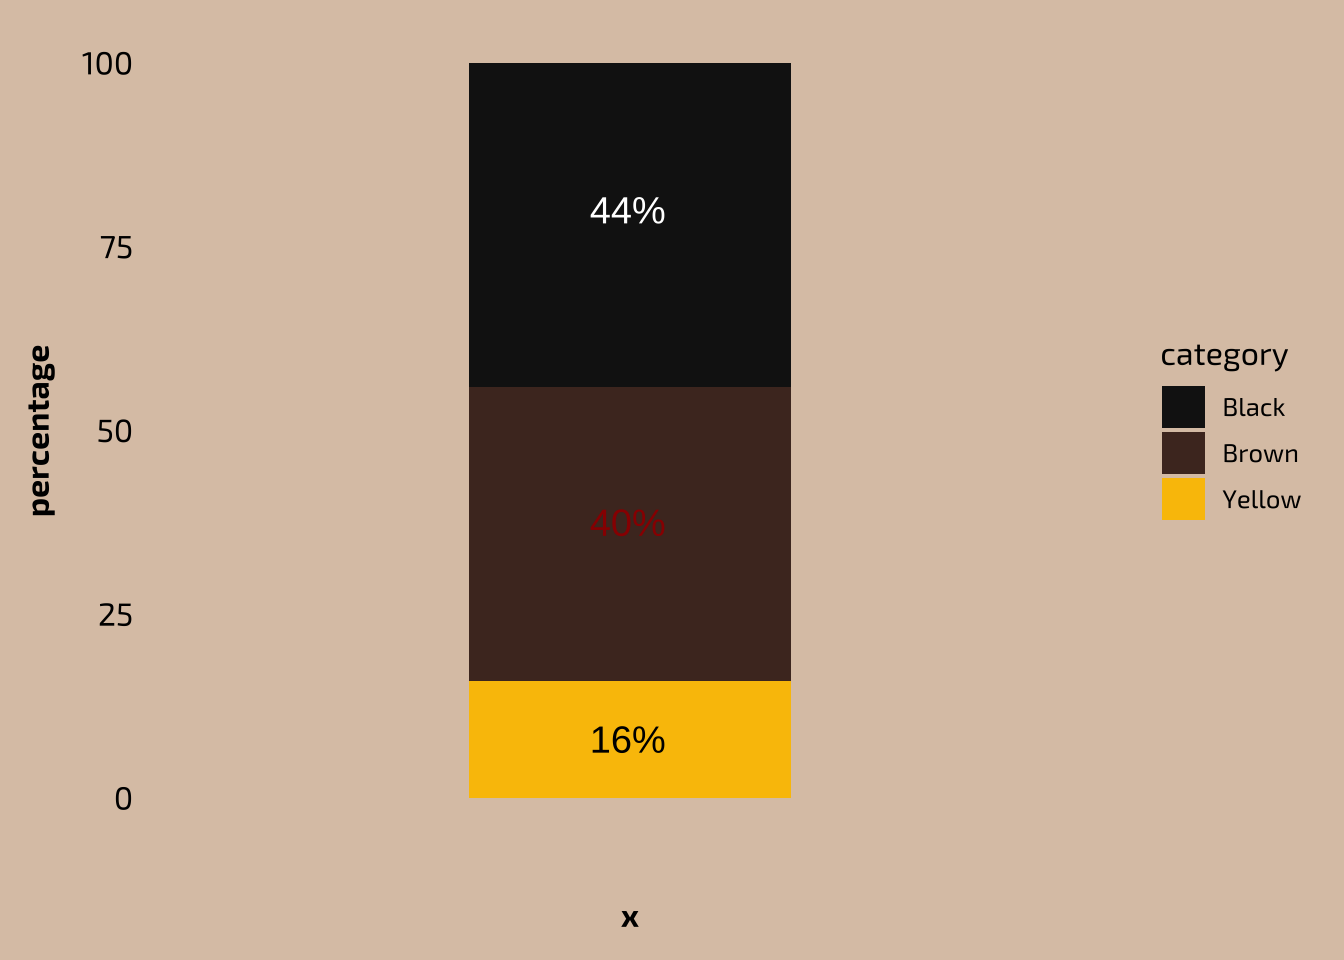
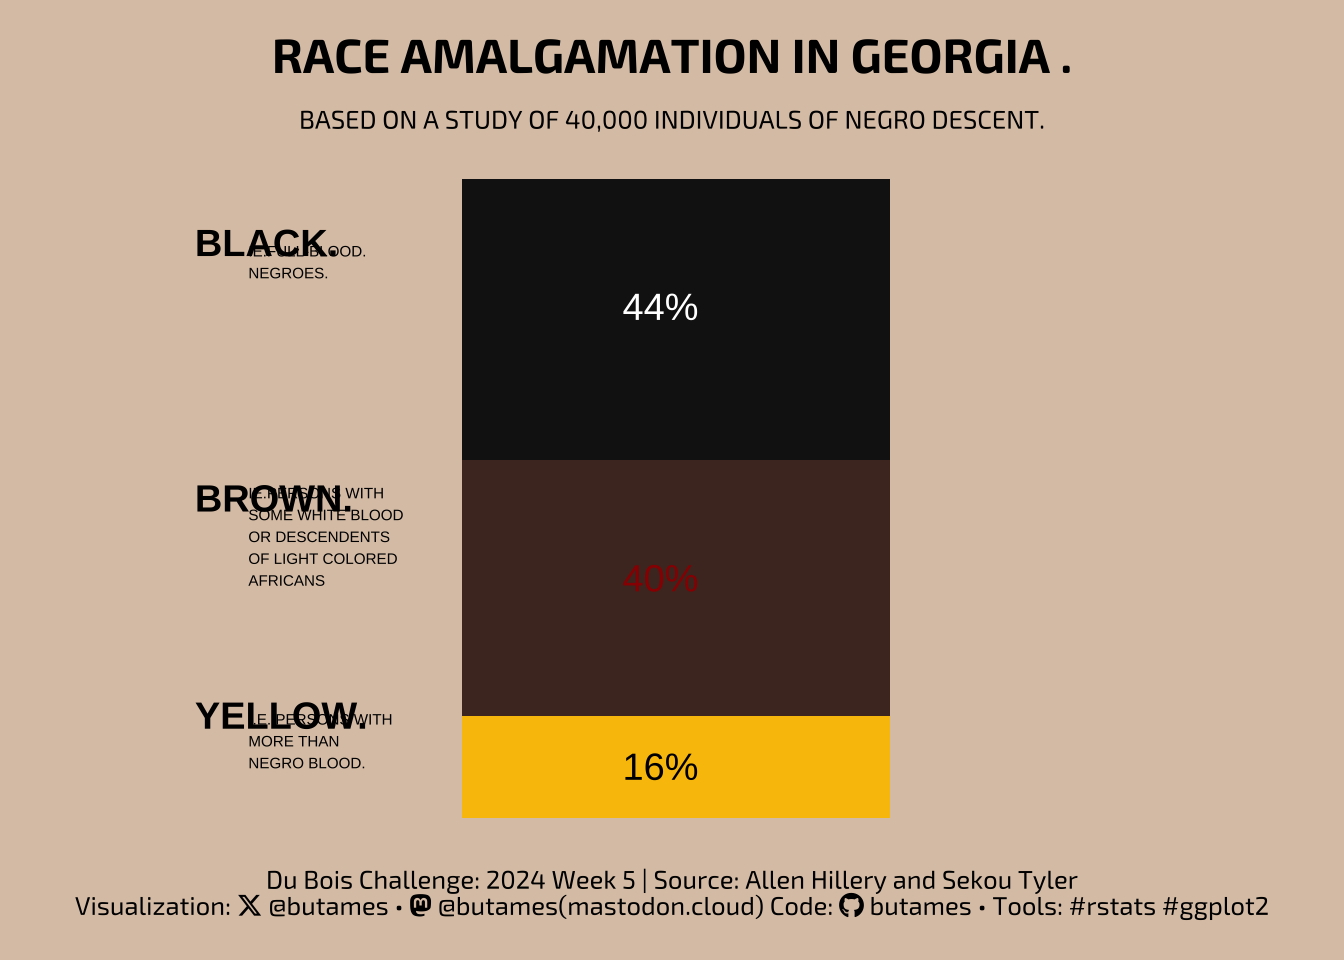
minor changes.

diff --git a/otherprojects/2024duboisviz/challenge05/challenge05.html b/otherprojects/2024duboisviz/challenge05/challenge05.html
@@ -180,19 +180,19 @@ Race Amalgamation in Georgia (plate 13), March 4.
 <div class="cell">
 <div class="sourceCode cell-code" id="cb5"><pre class="sourceCode r code-with-copy"><code class="sourceCode r"><span id="cb5-1"><a href="#cb5-1" aria-hidden="true" tabindex="-1"></a><span class="fu">theme_set</span>(<span class="fu">theme_minimal</span>(<span class="at">base_size =</span> <span class="dv">12</span>, <span class="at">base_family =</span> <span class="st">"text"</span>))</span>
 <span id="cb5-2"><a href="#cb5-2" aria-hidden="true" tabindex="-1"></a><span class="fu">theme_update</span>(</span>
-<span id="cb5-3"><a href="#cb5-3" aria-hidden="true" tabindex="-1"></a>  <span class="at">plot.title.position =</span> <span class="st">"plot"</span>,</span>
+<span id="cb5-3"><a href="#cb5-3" aria-hidden="true" tabindex="-1"></a>  <span class="at">plot.title.position   =</span> <span class="st">"plot"</span>,</span>
 <span id="cb5-4"><a href="#cb5-4" aria-hidden="true" tabindex="-1"></a>  <span class="at">plot.caption.position =</span> <span class="st">"plot"</span>,</span>
-<span id="cb5-5"><a href="#cb5-5" aria-hidden="true" tabindex="-1"></a>  <span class="at">axis.title.x =</span> <span class="fu">element_text</span>(<span class="at">margin =</span> <span class="fu">margin</span>(<span class="at">t =</span> <span class="dv">10</span>, <span class="at">r =</span> <span class="dv">0</span>, <span class="at">b =</span> <span class="dv">0</span>, <span class="at">l =</span> <span class="dv">0</span>), <span class="at">size =</span> <span class="fu">rel</span>(<span class="dv">1</span>), <span class="at">color =</span> txtcol, <span class="at">family =</span> <span class="st">"text"</span>, <span class="at">face =</span> <span class="st">"bold"</span>),</span>
-<span id="cb5-6"><a href="#cb5-6" aria-hidden="true" tabindex="-1"></a>  <span class="at">axis.title.y =</span> <span class="fu">element_text</span>(<span class="at">margin =</span> <span class="fu">margin</span>(<span class="at">t =</span> <span class="dv">0</span>, <span class="at">r =</span> <span class="dv">10</span>, <span class="at">b =</span> <span class="dv">0</span>, <span class="at">l =</span> <span class="dv">0</span>), <span class="at">size =</span> <span class="fu">rel</span>(<span class="dv">1</span>), <span class="at">color =</span> txtcol, <span class="at">family =</span> <span class="st">"text"</span>, <span class="at">face =</span> <span class="st">"bold"</span>),</span>
-<span id="cb5-7"><a href="#cb5-7" aria-hidden="true" tabindex="-1"></a>  <span class="at">axis.text =</span> <span class="fu">element_text</span>(<span class="at">size =</span> <span class="fu">rel</span>(<span class="dv">1</span>), <span class="at">color =</span> txtcol, <span class="at">family =</span> <span class="st">"text"</span>),</span>
-<span id="cb5-8"><a href="#cb5-8" aria-hidden="true" tabindex="-1"></a>  <span class="at">axis.line.x =</span> <span class="fu">element_blank</span>(),</span>
-<span id="cb5-9"><a href="#cb5-9" aria-hidden="true" tabindex="-1"></a>  <span class="at">panel.grid.minor.y =</span> <span class="fu">element_blank</span>(),</span>
-<span id="cb5-10"><a href="#cb5-10" aria-hidden="true" tabindex="-1"></a>  <span class="at">panel.grid.major.y =</span> <span class="fu">element_blank</span>(),</span>
-<span id="cb5-11"><a href="#cb5-11" aria-hidden="true" tabindex="-1"></a>  <span class="at">panel.grid.minor.x =</span> <span class="fu">element_blank</span>(),</span>
-<span id="cb5-12"><a href="#cb5-12" aria-hidden="true" tabindex="-1"></a>  <span class="at">panel.grid.major.x =</span> <span class="fu">element_blank</span>(),</span>
-<span id="cb5-13"><a href="#cb5-13" aria-hidden="true" tabindex="-1"></a>  <span class="at">plot.margin =</span> <span class="fu">margin</span>(<span class="at">t =</span> <span class="dv">10</span>, <span class="at">r =</span> <span class="dv">10</span>, <span class="at">b =</span> <span class="dv">10</span>, <span class="at">l =</span> <span class="dv">10</span>),</span>
-<span id="cb5-14"><a href="#cb5-14" aria-hidden="true" tabindex="-1"></a>  <span class="at">plot.background =</span> <span class="fu">element_rect</span>(<span class="at">fill =</span> bkgcol, <span class="at">color =</span> bkgcol),</span>
-<span id="cb5-15"><a href="#cb5-15" aria-hidden="true" tabindex="-1"></a>  <span class="at">panel.background =</span> <span class="fu">element_rect</span>(<span class="at">fill =</span> bkgcol, <span class="at">color =</span> bkgcol)</span>
+<span id="cb5-5"><a href="#cb5-5" aria-hidden="true" tabindex="-1"></a>  <span class="at">axis.title.x          =</span> <span class="fu">element_text</span>(<span class="at">margin =</span> <span class="fu">margin</span>(<span class="at">t =</span> <span class="dv">10</span>, <span class="at">r =</span> <span class="dv">0</span>, <span class="at">b =</span> <span class="dv">0</span>, <span class="at">l =</span> <span class="dv">0</span>), <span class="at">size =</span> <span class="fu">rel</span>(<span class="dv">1</span>), <span class="at">color =</span> txtcol, <span class="at">family =</span> <span class="st">"text"</span>, <span class="at">face =</span> <span class="st">"bold"</span>),</span>
+<span id="cb5-6"><a href="#cb5-6" aria-hidden="true" tabindex="-1"></a>  <span class="at">axis.title.y          =</span> <span class="fu">element_text</span>(<span class="at">margin =</span> <span class="fu">margin</span>(<span class="at">t =</span> <span class="dv">0</span>, <span class="at">r =</span> <span class="dv">10</span>, <span class="at">b =</span> <span class="dv">0</span>, <span class="at">l =</span> <span class="dv">0</span>), <span class="at">size =</span> <span class="fu">rel</span>(<span class="dv">1</span>), <span class="at">color =</span> txtcol, <span class="at">family =</span> <span class="st">"text"</span>, <span class="at">face =</span> <span class="st">"bold"</span>),</span>
+<span id="cb5-7"><a href="#cb5-7" aria-hidden="true" tabindex="-1"></a>  <span class="at">axis.text             =</span> <span class="fu">element_blank</span>(),</span>
+<span id="cb5-8"><a href="#cb5-8" aria-hidden="true" tabindex="-1"></a>  <span class="at">axis.line.x           =</span> <span class="fu">element_blank</span>(),</span>
+<span id="cb5-9"><a href="#cb5-9" aria-hidden="true" tabindex="-1"></a>  <span class="at">panel.grid.minor.y    =</span> <span class="fu">element_blank</span>(),</span>
+<span id="cb5-10"><a href="#cb5-10" aria-hidden="true" tabindex="-1"></a>  <span class="at">panel.grid.major.y    =</span> <span class="fu">element_blank</span>(),</span>
+<span id="cb5-11"><a href="#cb5-11" aria-hidden="true" tabindex="-1"></a>  <span class="at">panel.grid.minor.x    =</span> <span class="fu">element_blank</span>(),</span>
+<span id="cb5-12"><a href="#cb5-12" aria-hidden="true" tabindex="-1"></a>  <span class="at">panel.grid.major.x    =</span> <span class="fu">element_blank</span>(),</span>
+<span id="cb5-13"><a href="#cb5-13" aria-hidden="true" tabindex="-1"></a>  <span class="at">plot.margin           =</span> <span class="fu">margin</span>(<span class="at">t =</span> <span class="dv">10</span>, <span class="at">r =</span> <span class="dv">10</span>, <span class="at">b =</span> <span class="dv">10</span>, <span class="at">l =</span> <span class="dv">10</span>),</span>
+<span id="cb5-14"><a href="#cb5-14" aria-hidden="true" tabindex="-1"></a>  <span class="at">plot.background       =</span> <span class="fu">element_rect</span>(<span class="at">fill =</span> bkgcol, <span class="at">color =</span> bkgcol),</span>
+<span id="cb5-15"><a href="#cb5-15" aria-hidden="true" tabindex="-1"></a>  <span class="at">panel.background      =</span> <span class="fu">element_rect</span>(<span class="at">fill =</span> bkgcol, <span class="at">color =</span> bkgcol)</span>
 <span id="cb5-16"><a href="#cb5-16" aria-hidden="true" tabindex="-1"></a>)</span></code><button title="Copy to Clipboard" class="code-copy-button"><i class="bi"></i></button></pre></div>
 </div>
 </section>
@@ -206,14 +206,63 @@ Race Amalgamation in Georgia (plate 13), March 4.
 <span id="cb6-5"><a href="#cb6-5" aria-hidden="true" tabindex="-1"></a>  <span class="fu">scale_fill_manual</span>(<span class="at">values =</span> palette) <span class="sc">+</span></span>
 <span id="cb6-6"><a href="#cb6-6" aria-hidden="true" tabindex="-1"></a>  <span class="fu">annotate</span>(<span class="st">"text"</span>, <span class="at">x =</span> <span class="fl">0.95</span>, <span class="at">y =</span> <span class="dv">80</span>, <span class="at">label =</span> <span class="st">"44%"</span>, <span class="at">size =</span> <span class="dv">5</span>, <span class="at">hjust =</span> <span class="dv">0</span>, <span class="at">colour =</span> <span class="st">"#FFFFFF"</span>) <span class="sc">+</span></span>
 <span id="cb6-7"><a href="#cb6-7" aria-hidden="true" tabindex="-1"></a>  <span class="fu">annotate</span>(<span class="st">"text"</span>, <span class="at">x =</span> <span class="fl">0.95</span>, <span class="at">y =</span> <span class="fl">37.5</span>, <span class="at">label =</span> <span class="st">"40%"</span>, <span class="at">size =</span> <span class="dv">5</span>, <span class="at">hjust =</span> <span class="dv">0</span>, <span class="at">colour =</span> <span class="st">"#990000"</span>) <span class="sc">+</span></span>
-<span id="cb6-8"><a href="#cb6-8" aria-hidden="true" tabindex="-1"></a>  <span class="fu">annotate</span>(<span class="st">"text"</span>, <span class="at">x =</span> <span class="fl">0.95</span>, <span class="at">y =</span> <span class="dv">8</span>, <span class="at">label =</span> <span class="st">"16%"</span>, <span class="at">size =</span> <span class="dv">5</span>, <span class="at">hjust =</span> <span class="dv">0</span>, <span class="at">colour =</span> <span class="st">"#000000"</span>) </span>
-<span id="cb6-9"><a href="#cb6-9" aria-hidden="true" tabindex="-1"></a>  <span class="co"># geom_text(aes(label = percentage), vjust = -0.2)</span></span>
-<span id="cb6-10"><a href="#cb6-10" aria-hidden="true" tabindex="-1"></a>  </span>
-<span id="cb6-11"><a href="#cb6-11" aria-hidden="true" tabindex="-1"></a></span>
-<span id="cb6-12"><a href="#cb6-12" aria-hidden="true" tabindex="-1"></a>plt1 </span></code><button title="Copy to Clipboard" class="code-copy-button"><i class="bi"></i></button></pre></div>
+<span id="cb6-8"><a href="#cb6-8" aria-hidden="true" tabindex="-1"></a>  <span class="fu">annotate</span>(<span class="st">"text"</span>, <span class="at">x =</span> <span class="fl">0.95</span>, <span class="at">y =</span> <span class="dv">8</span>, <span class="at">label =</span> <span class="st">"16%"</span>, <span class="at">size =</span> <span class="dv">5</span>, <span class="at">hjust =</span> <span class="dv">0</span>, <span class="at">colour =</span> <span class="st">"#000000"</span>) <span class="sc">+</span></span>
+<span id="cb6-9"><a href="#cb6-9" aria-hidden="true" tabindex="-1"></a>  </span>
+<span id="cb6-10"><a href="#cb6-10" aria-hidden="true" tabindex="-1"></a>  <span class="fu">annotate</span>(<span class="st">"text"</span>, <span class="at">x =</span> <span class="fl">0.55</span>, <span class="at">y =</span> <span class="dv">90</span>, <span class="at">label =</span> <span class="st">"BLACK."</span>, <span class="at">size =</span> <span class="dv">5</span>, <span class="at">hjust =</span> <span class="dv">0</span>, <span class="at">fontface =</span> <span class="st">"bold"</span>) <span class="sc">+</span></span>
+<span id="cb6-11"><a href="#cb6-11" aria-hidden="true" tabindex="-1"></a>  <span class="fu">annotate</span>(<span class="st">"text"</span>, <span class="at">x =</span> <span class="fl">0.60</span>, <span class="at">y =</span> <span class="dv">87</span>, <span class="at">label =</span> <span class="st">"IE.FULL-BLOOD.</span><span class="sc">\n</span><span class="st">NEGROES."</span>, <span class="at">size =</span> <span class="dv">2</span>, <span class="at">hjust =</span> <span class="dv">0</span>) <span class="sc">+</span></span>
+<span id="cb6-12"><a href="#cb6-12" aria-hidden="true" tabindex="-1"></a>  </span>
+<span id="cb6-13"><a href="#cb6-13" aria-hidden="true" tabindex="-1"></a>  <span class="fu">annotate</span>(<span class="st">"text"</span>, <span class="at">x =</span> <span class="fl">0.55</span>, <span class="at">y =</span> <span class="dv">50</span>, <span class="at">label =</span> <span class="st">"BROWN."</span>, <span class="at">size =</span> <span class="dv">5</span>, <span class="at">hjust =</span> <span class="dv">0</span>, <span class="at">fontface =</span> <span class="st">"bold"</span>) <span class="sc">+</span></span>
+<span id="cb6-14"><a href="#cb6-14" aria-hidden="true" tabindex="-1"></a>  <span class="fu">annotate</span>(<span class="st">"text"</span>, <span class="at">x =</span> <span class="fl">0.60</span>, <span class="at">y =</span> <span class="dv">44</span>, <span class="at">label =</span> <span class="st">"IE.PERSONS WITH</span><span class="sc">\n</span><span class="st">SOME WHITE BLOOD</span><span class="sc">\n</span><span class="st">OR DESCENDENTS</span><span class="sc">\n</span><span class="st">OF LIGHT COLORED</span><span class="sc">\n</span><span class="st">AFRICANS"</span>, <span class="at">size =</span> <span class="dv">2</span>,<span class="at">hjust =</span> <span class="dv">0</span>) <span class="sc">+</span></span>
+<span id="cb6-15"><a href="#cb6-15" aria-hidden="true" tabindex="-1"></a>  </span>
+<span id="cb6-16"><a href="#cb6-16" aria-hidden="true" tabindex="-1"></a>  <span class="fu">annotate</span>(<span class="st">"text"</span>, <span class="at">x =</span> <span class="fl">0.55</span>, <span class="at">y =</span> <span class="dv">16</span>, <span class="at">label =</span> <span class="st">"YELLOW."</span>, <span class="at">size =</span> <span class="dv">5</span>, <span class="at">hjust =</span> <span class="dv">0</span>, <span class="at">fontface =</span> <span class="st">"bold"</span>) <span class="sc">+</span></span>
+<span id="cb6-17"><a href="#cb6-17" aria-hidden="true" tabindex="-1"></a>  <span class="fu">annotate</span>(<span class="st">"text"</span>, <span class="at">x =</span> <span class="fl">0.60</span>, <span class="at">y =</span> <span class="dv">12</span>, <span class="at">label =</span> <span class="st">"I.E. PERSONS WITH</span><span class="sc">\n</span><span class="st">MORE THAN</span><span class="sc">\n</span><span class="st">NEGRO BLOOD."</span>, <span class="at">size =</span><span class="dv">2</span>,<span class="at">hjust =</span> <span class="dv">0</span>) <span class="sc">+</span></span>
+<span id="cb6-18"><a href="#cb6-18" aria-hidden="true" tabindex="-1"></a>  </span>
+<span id="cb6-19"><a href="#cb6-19" aria-hidden="true" tabindex="-1"></a>  <span class="fu">labs</span>(</span>
+<span id="cb6-20"><a href="#cb6-20" aria-hidden="true" tabindex="-1"></a>    <span class="at">x =</span> <span class="cn">NULL</span>,</span>
+<span id="cb6-21"><a href="#cb6-21" aria-hidden="true" tabindex="-1"></a>    <span class="at">y =</span> <span class="cn">NULL</span>,</span>
+<span id="cb6-22"><a href="#cb6-22" aria-hidden="true" tabindex="-1"></a>    <span class="at">title =</span> ttltxt,</span>
+<span id="cb6-23"><a href="#cb6-23" aria-hidden="true" tabindex="-1"></a>    <span class="at">subtitle =</span> subtxt,</span>
+<span id="cb6-24"><a href="#cb6-24" aria-hidden="true" tabindex="-1"></a>    <span class="at">caption =</span> captxt</span>
+<span id="cb6-25"><a href="#cb6-25" aria-hidden="true" tabindex="-1"></a>  ) <span class="sc">+</span></span>
+<span id="cb6-26"><a href="#cb6-26" aria-hidden="true" tabindex="-1"></a>  <span class="fu">theme</span>(</span>
+<span id="cb6-27"><a href="#cb6-27" aria-hidden="true" tabindex="-1"></a>    <span class="at">legend.position  =</span> <span class="st">"none"</span>,</span>
+<span id="cb6-28"><a href="#cb6-28" aria-hidden="true" tabindex="-1"></a>    <span class="at">plot.title       =</span> <span class="fu">element_markdown</span>(</span>
+<span id="cb6-29"><a href="#cb6-29" aria-hidden="true" tabindex="-1"></a>      <span class="at">size           =</span> <span class="fu">rel</span>(<span class="fl">1.5</span>), </span>
+<span id="cb6-30"><a href="#cb6-30" aria-hidden="true" tabindex="-1"></a>      <span class="at">family         =</span> <span class="st">"title"</span>,</span>
+<span id="cb6-31"><a href="#cb6-31" aria-hidden="true" tabindex="-1"></a>      <span class="at">face           =</span> <span class="st">"bold"</span>,</span>
+<span id="cb6-32"><a href="#cb6-32" aria-hidden="true" tabindex="-1"></a>      <span class="at">color          =</span> ttlcol,</span>
+<span id="cb6-33"><a href="#cb6-33" aria-hidden="true" tabindex="-1"></a>      <span class="at">hjust =</span> <span class="fl">0.5</span>,</span>
+<span id="cb6-34"><a href="#cb6-34" aria-hidden="true" tabindex="-1"></a>      <span class="at">halign =</span> <span class="fl">0.5</span>,</span>
+<span id="cb6-35"><a href="#cb6-35" aria-hidden="true" tabindex="-1"></a>      <span class="at">margin         =</span> <span class="fu">margin</span>(<span class="at">t =</span> <span class="dv">5</span>, <span class="at">b =</span> <span class="dv">5</span>)),</span>
+<span id="cb6-36"><a href="#cb6-36" aria-hidden="true" tabindex="-1"></a>    <span class="at">plot.subtitle    =</span> <span class="fu">element_markdown</span>(</span>
+<span id="cb6-37"><a href="#cb6-37" aria-hidden="true" tabindex="-1"></a>      <span class="at">size           =</span> <span class="fu">rel</span>(.<span class="dv">8</span>), </span>
+<span id="cb6-38"><a href="#cb6-38" aria-hidden="true" tabindex="-1"></a>      <span class="at">family         =</span> <span class="st">"subtitle"</span>,</span>
+<span id="cb6-39"><a href="#cb6-39" aria-hidden="true" tabindex="-1"></a>      <span class="at">color          =</span> subcol,</span>
+<span id="cb6-40"><a href="#cb6-40" aria-hidden="true" tabindex="-1"></a>      <span class="at">lineheight     =</span> <span class="fl">0.65</span>,</span>
+<span id="cb6-41"><a href="#cb6-41" aria-hidden="true" tabindex="-1"></a>      <span class="at">hjust          =</span> <span class="fl">0.5</span>,</span>
+<span id="cb6-42"><a href="#cb6-42" aria-hidden="true" tabindex="-1"></a>      <span class="at">halign         =</span> <span class="fl">0.5</span>,</span>
+<span id="cb6-43"><a href="#cb6-43" aria-hidden="true" tabindex="-1"></a>      <span class="at">margin         =</span> <span class="fu">margin</span>(<span class="at">t =</span> <span class="dv">5</span>, <span class="at">b =</span> <span class="dv">5</span>)),</span>
+<span id="cb6-44"><a href="#cb6-44" aria-hidden="true" tabindex="-1"></a>    <span class="at">plot.caption     =</span> <span class="fu">element_markdown</span>(</span>
+<span id="cb6-45"><a href="#cb6-45" aria-hidden="true" tabindex="-1"></a>      <span class="at">size           =</span> <span class="fu">rel</span>(.<span class="dv">8</span>), </span>
+<span id="cb6-46"><a href="#cb6-46" aria-hidden="true" tabindex="-1"></a>      <span class="at">family         =</span> <span class="st">"caption"</span>,</span>
+<span id="cb6-47"><a href="#cb6-47" aria-hidden="true" tabindex="-1"></a>      <span class="at">color          =</span> capcol,</span>
+<span id="cb6-48"><a href="#cb6-48" aria-hidden="true" tabindex="-1"></a>      <span class="at">lineheight     =</span> <span class="fl">0.65</span>,</span>
+<span id="cb6-49"><a href="#cb6-49" aria-hidden="true" tabindex="-1"></a>      <span class="at">hjust          =</span> <span class="fl">0.5</span>,</span>
+<span id="cb6-50"><a href="#cb6-50" aria-hidden="true" tabindex="-1"></a>      <span class="at">halign         =</span> <span class="fl">0.5</span>,</span>
+<span id="cb6-51"><a href="#cb6-51" aria-hidden="true" tabindex="-1"></a>      <span class="at">margin         =</span> <span class="fu">margin</span>(<span class="at">t =</span> <span class="dv">5</span>, <span class="at">b =</span> <span class="dv">5</span>))</span>
+<span id="cb6-52"><a href="#cb6-52" aria-hidden="true" tabindex="-1"></a>  )</span>
+<span id="cb6-53"><a href="#cb6-53" aria-hidden="true" tabindex="-1"></a></span>
+<span id="cb6-54"><a href="#cb6-54" aria-hidden="true" tabindex="-1"></a></span>
+<span id="cb6-55"><a href="#cb6-55" aria-hidden="true" tabindex="-1"></a>plt1 </span></code><button title="Copy to Clipboard" class="code-copy-button"><i class="bi"></i></button></pre></div>
 <div class="cell-output-display">
 <p><img src="challenge05_files/figure-html/plot-1.png" class="img-fluid" width="672"></p>
 </div>
+</div>
+</section>
+<section id="save-figure" class="level2">
+<h2 class="anchored" data-anchor-id="save-figure">SAVE FIGURE</h2>
+<div class="cell">
+<div class="sourceCode cell-code" id="cb7"><pre class="sourceCode r code-with-copy"><code class="sourceCode r"><span id="cb7-1"><a href="#cb7-1" aria-hidden="true" tabindex="-1"></a><span class="fu">ggsave</span>(<span class="fu">paste0</span>(<span class="st">"challenge05_"</span>, <span class="fu">format</span>(<span class="fu">Sys.time</span>(), <span class="st">"%d%m%Y"</span>), <span class="st">".png"</span>), <span class="at">dpi =</span> <span class="dv">320</span>, <span class="at">height=</span><span class="dv">11</span>, <span class="at">width =</span> <span class="fl">8.5</span>, <span class="at">limitsize =</span> F)</span></code><button title="Copy to Clipboard" class="code-copy-button"><i class="bi"></i></button></pre></div>
 </div>
 </section>
 
